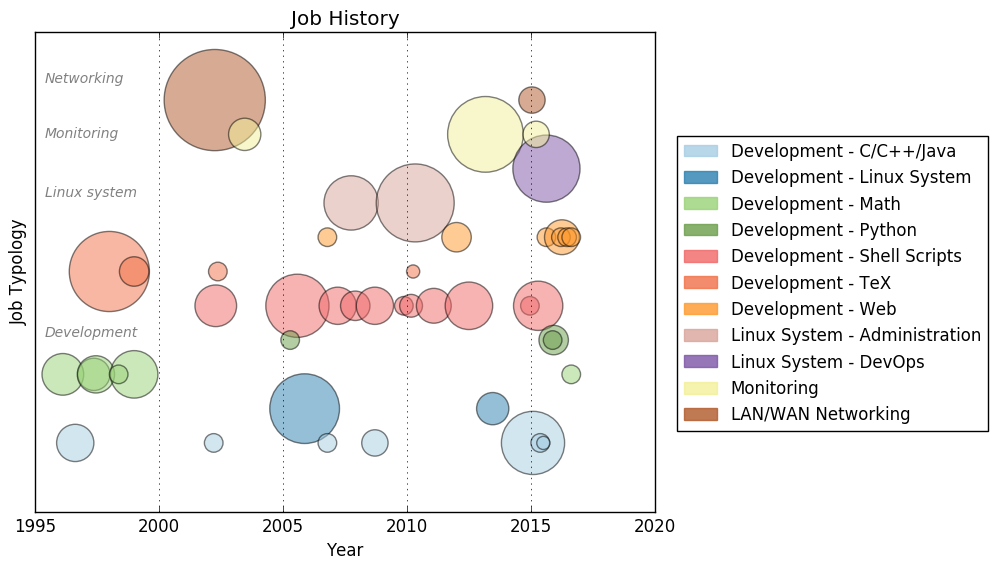
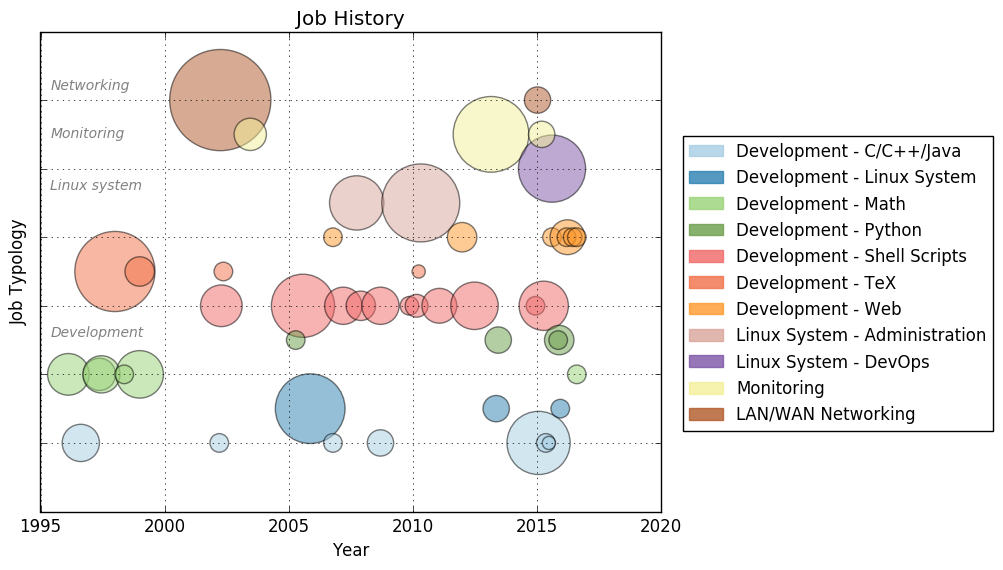
plot-experiences.py: update the look for hopefully a better visual result

diff --git a/scripts/plot-experiences.py b/scripts/plot-experiences.py
@@ -67,9 +67,13 @@ jobs = [
    # Refont cv in TeX
    { 'year_start': [2010,  3], 'year_end': [2010,  3], 'type': 'Development - TeX' },
    { 'year_start': [2011, 10], 'year_end': [2014,  6], 'type': 'Monitoring' },
-   # script PHP IBM
+   # Scripts PHP IBM
    { 'year_start': [2011, 10], 'year_end': [2012,  2], 'type': 'Development - Web' },
-   { 'year_start': [2013,  3], 'year_end': [2013,  8], 'type': 'Development - Linux System' },
+   # Development on Rasberry Pi - System
+   { 'year_start': [2013,  3], 'year_end': [2013,  6], 'type': 'Development - Linux System' },
+   # Development on Rasberry Pi - XBMC pilot
+   { 'year_start': [2013,  4], 'year_end': [2013,  7], 'type': 'Development - Python' },
+   # Nagios PLugins for Linux
    { 'year_start': [2014,  2], 'year_end': [2015, 12], 'type': 'Development - C/C++/Java' },
    { 'year_start': [2014,  7], 'year_end': [2016,  8], 'type': 'Linux System - DevOps' },
    # Sopra-Steria
@@ -87,6 +91,8 @@ jobs = [
    { 'year_start': [2015,  9], 'year_end': [2016,  1], 'type': 'Development - Python' },
    # System tools
    { 'year_start': [2015, 10], 'year_end': [2015, 11], 'type': 'Development - Python' },
+   # OpenMamba - Data Analisys tools
+   { 'year_start': [2015, 11], 'year_end': [2015, 12], 'type': 'Development - Linux System' },
    # Full Stack Web Specialization
    { 'year_start': [2015, 12], 'year_end': [2016,  6], 'type': 'Development - Web' },
    # jQuery, TypeScript, Angular.js
@@ -134,9 +140,9 @@ ax.set_title('Job History')
 ax.set_xlim([1995, 2020])
 
 # Add grid
-#ax.set_yticks([6.5, 8.2, 9.9])
-ax.set_yticks([])
-#ax.set_yticklabels(['', '', ''])
+yticks = range(0, len(job_list), 2)
+ax.set_yticks(yticks)
+ax.set_yticklabels([''] * len(yticks))
 ax.grid('on')
 
 def textlabel(x, y, text):
@@ -144,9 +150,9 @@ def textlabel(x, y, text):
             #, bbox={'facecolor':'red', 'alpha':0.5, 'pad':6})
 
 textlabel(1995.4,  3.1, 'Development')
-textlabel(1995.4,  7.2, 'Linux system')
+textlabel(1995.4,  7.4, 'Linux system')
 textlabel(1995.4,  8.9, 'Monitoring')
-textlabel(1995.4, 10.5, 'Networking')
+textlabel(1995.4, 10.3, 'Networking')
 
 # Add a legend
 handles = [mpatches.Patch(color=c(job), label=job, alpha=0.8) for job in job_list]
